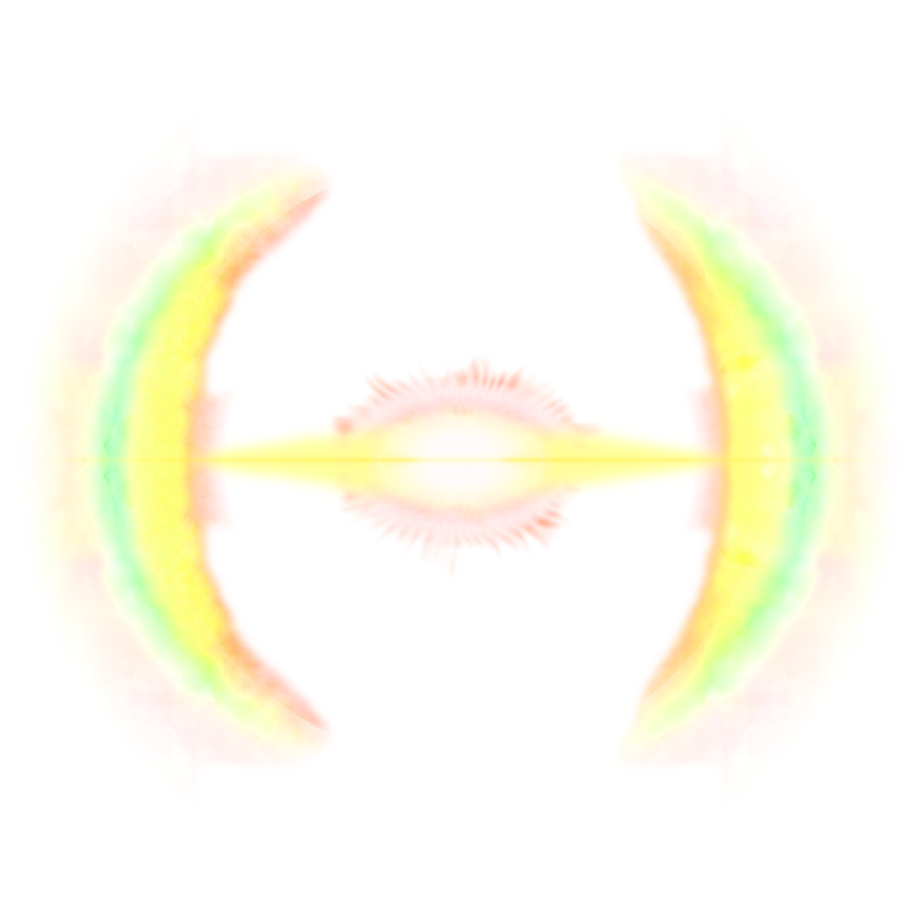
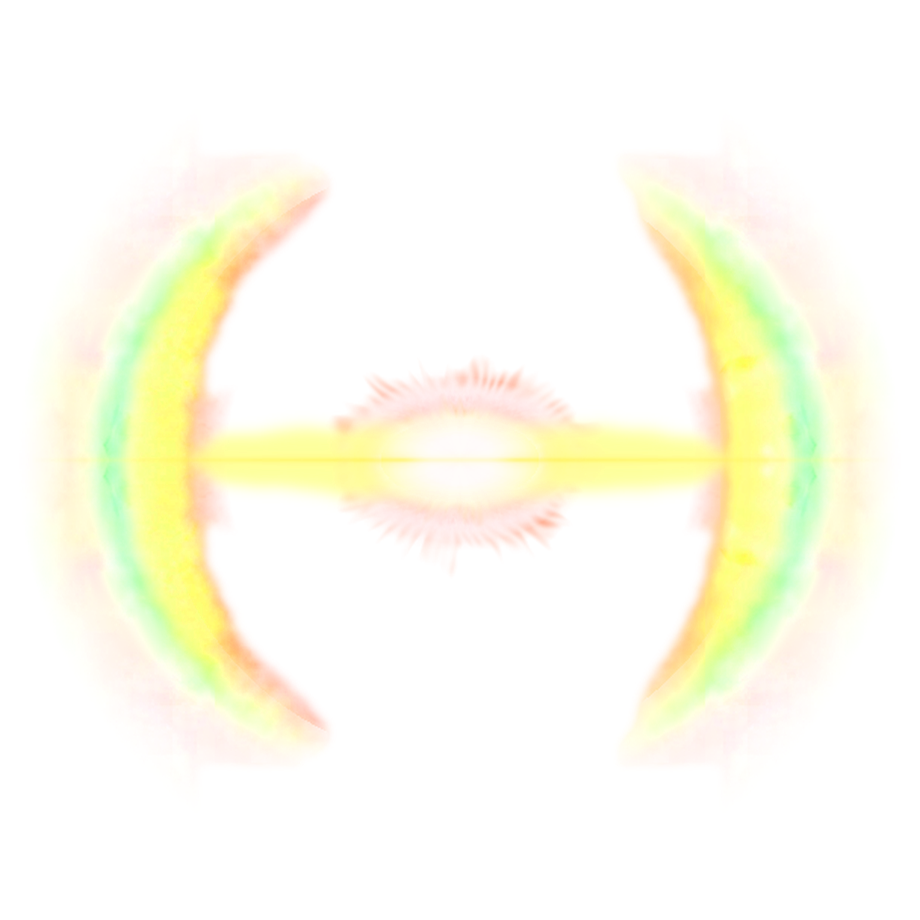
Efekt 10 kare 4: bantlar kare 3'teki gibi paranteze kadar kalın uzanıyor
Claude-Session: https://claude.ai/code/session_01E9c1WiJsMc9gXSJZ9D4z6g

Changed region(s): [[0.6087, 0.4565, 0.7913, 0.5478], [0.213, 0.4565, 0.3957, 0.5478]]

diff --git a/arayuz/araclar/efekt10/kare_04.py b/arayuz/araclar/efekt10/kare_04.py
@@ -22,7 +22,7 @@ bos=np.clip((184-R)/30,0,1)*(1-sariyesil)
 L=L*(1-bos)[...,None]
 # 2) mercek bicimli titanyum beyaz: yari yukseklik profili h(x) -> govde (elips) + uca dogru incelen bant
 govde=GOVDE_Y*np.sqrt(np.clip(1-(ax/GOVDE_X)**2,0,1))
-bant=BANT_Y*(1-0.85*np.clip((ax-GOVDE_X*0.5)/(BANT_X-GOVDE_X*0.5),0,1)**0.8)*np.clip((BANT_X+10-ax)/20,0,1)   # kureden kalin cikar, paranteze dogru incelir
+bant=BANT_Y*(1-0.42*np.clip((ax-GOVDE_X*0.5)/(BANT_X-GOVDE_X*0.5),0,1)**0.8)*np.clip((BANT_X+10-ax)/20,0,1)   # kureden kalin cikar, paranteze dogru incelir
 h=np.maximum(govde,np.maximum(bant,0.01))
 h=ndimage.gaussian_filter1d(h,6,axis=1)                         # govde-bant gecisi yumusak (goz bicimi)
 rg=np.random.default_rng(31)
